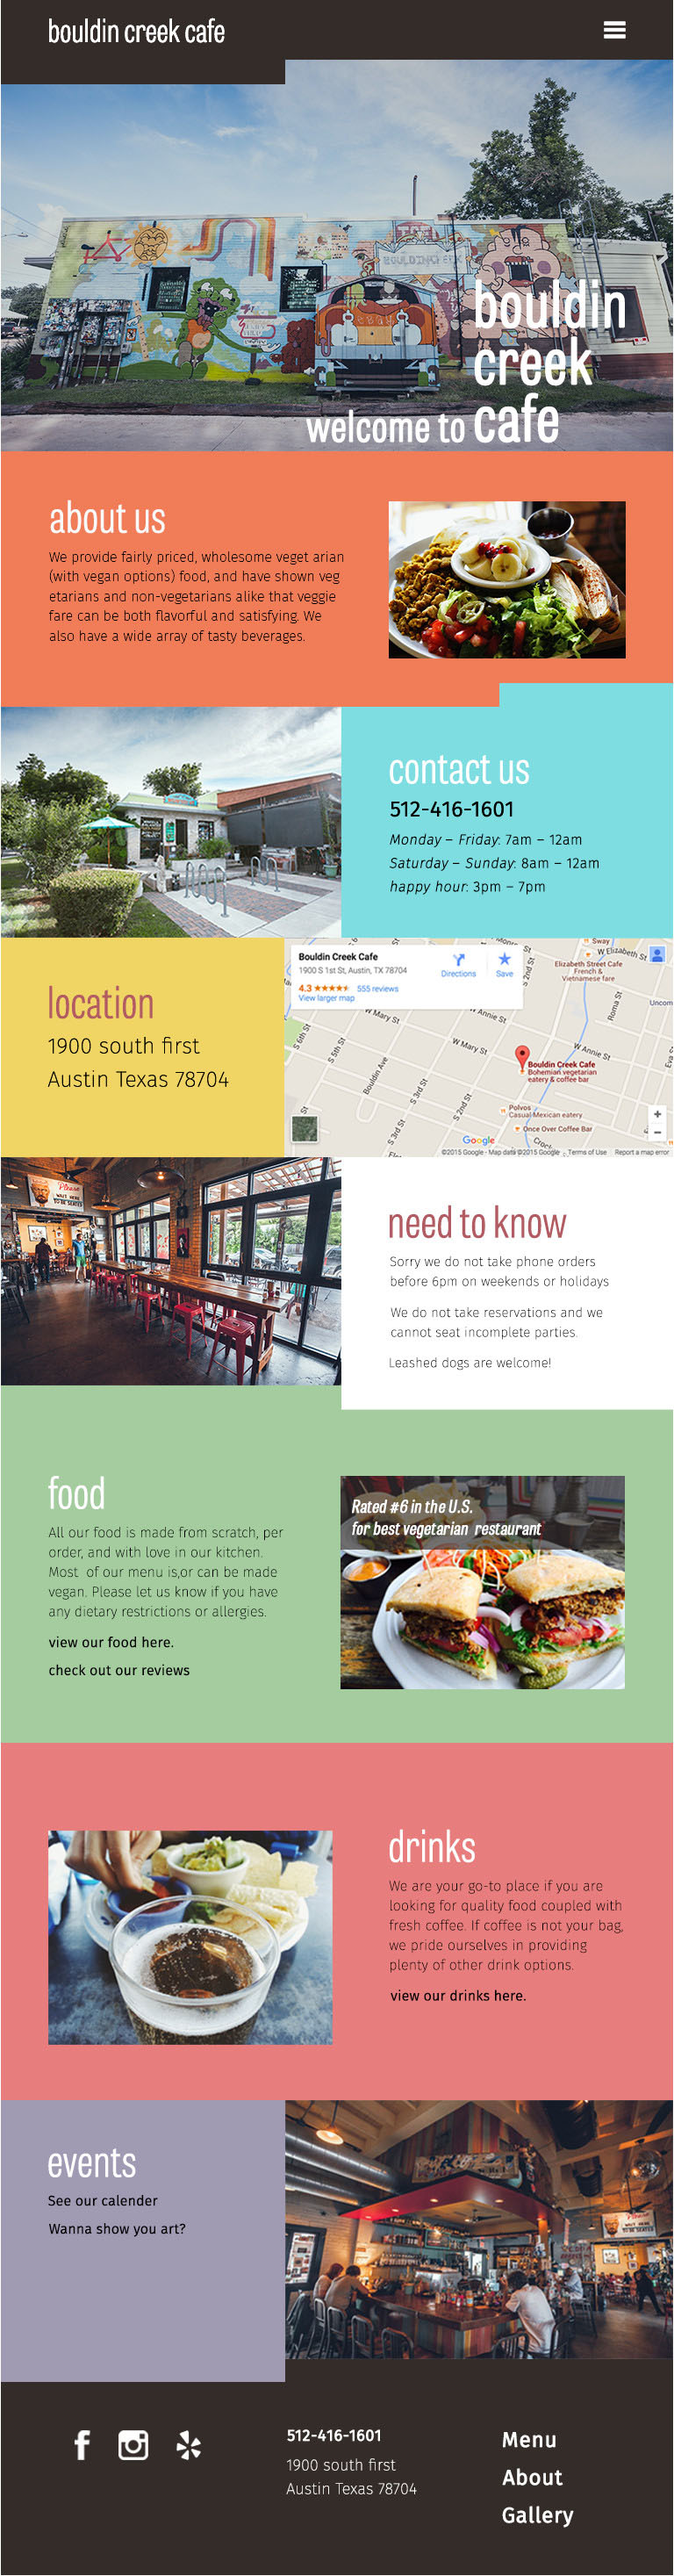
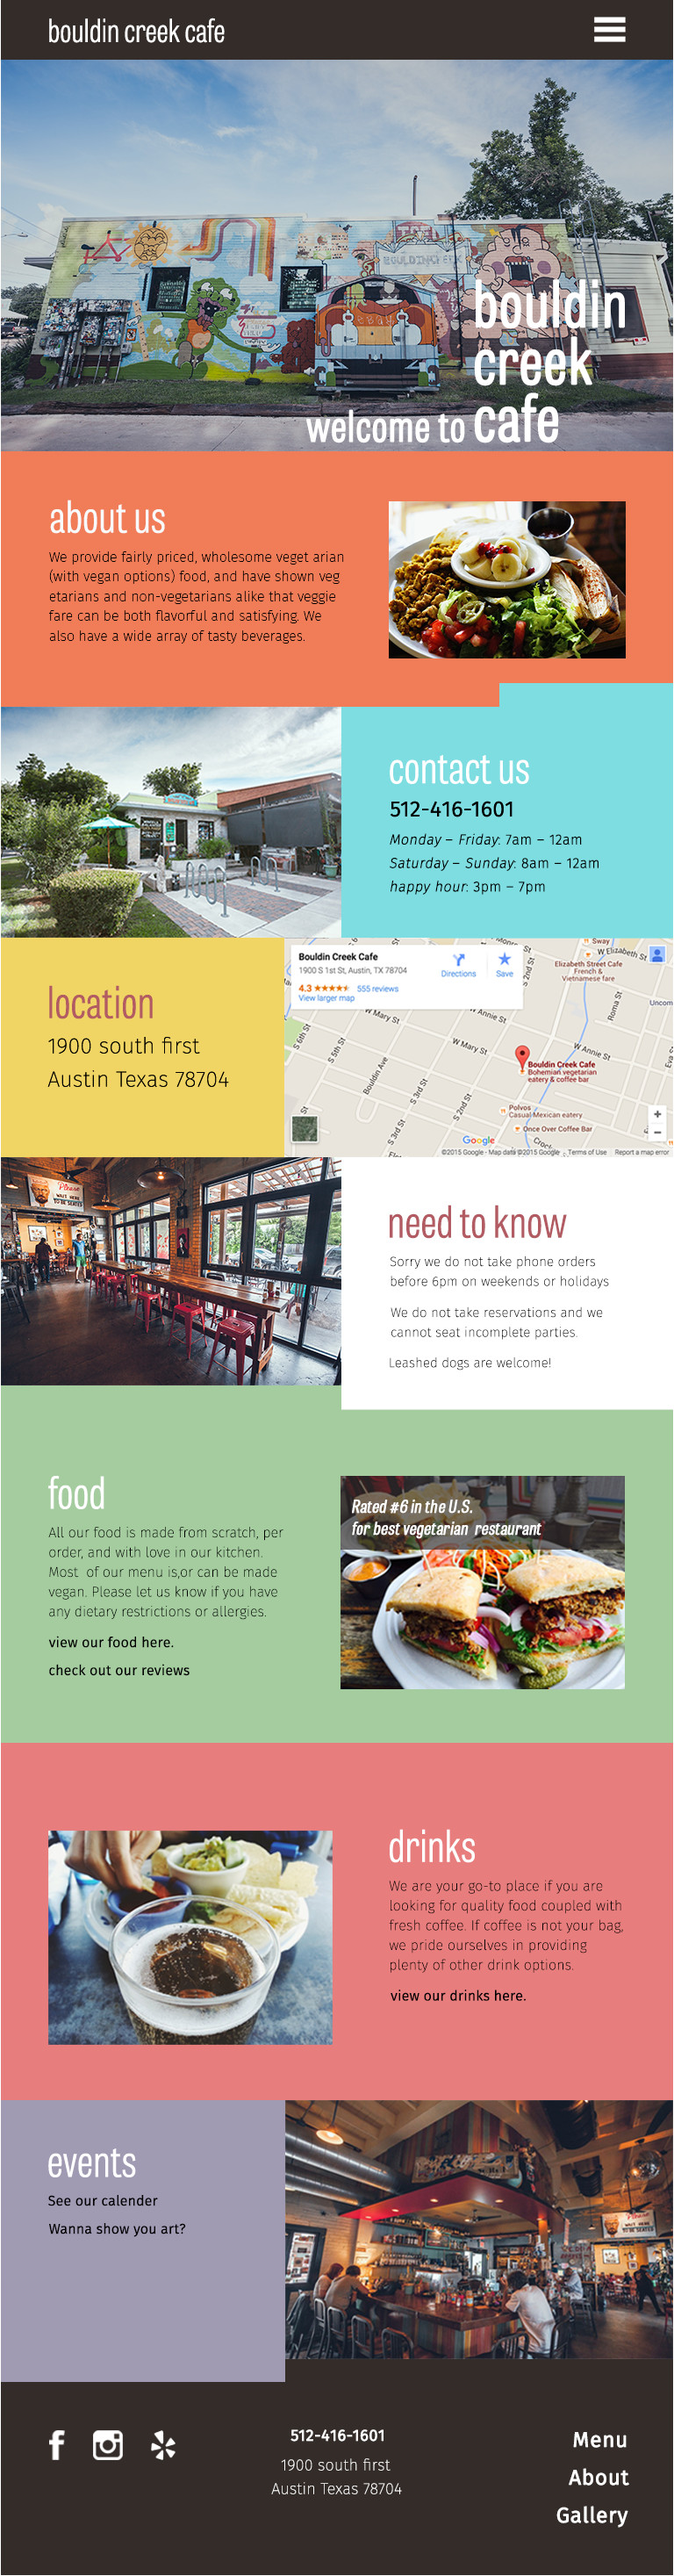
adding content to about page and working on portfolio page info

diff --git a/quest.html b/quest.html
@@ -63,7 +63,7 @@ layout: default
 <ul>
    <li>HTML</li>
    <li>CSS3</li>
-   <li>SASS</li>
+   <li>Sass</li>
    <li>jQuery</li>
    <li>Bootstrap</li>
    <li>RWD</li>
@@ -77,30 +77,30 @@ layout: default
 <h3>Process</h3>
 <p>
 
-I started with user experiences, being a wakeboarder myself made finding people in the sport fairly easy. I talked to the owners, people who knew nothing about cable parks, first timers, and experience riders. It so soon apparent that the site was overwhelming to new riders and didn't provide users with an understanding of what a cable park is. I also found  that tablet users lost all navigation when using the website. While the content was all there I decided it would need an easy to use layout that allowed the user to find info quickly. I moved into doing a wordlist, swot analysis, and competitive market study to gain all the knowledge I could before starting my design.</p>
+I started with user experiences, being a wakeboarder myself made finding people in the sport fairly easy. I talked to the owners, people who knew nothing about cable parks, first timers, and experience riders. It so soon apparent that the site was overwhelming to new riders and didn't provide users with an understanding of what a cable park is. I also found  that tablet users lost all navigation when using the website. While the content was all there I decided it would need an easy to use layout that allowed the user to find info quickly. I moved into doing a wordlist, S.W.O.T analysis, and competitive market study to gain all the knowledge I could before starting my design.</p>
 
-<p class="para-padding">I designed five style tiles and narrowed it down to two. After critiques from the class and users I decided to transform a few of the concepts into one. </p>
+<p class="padding">I designed five style tiles and narrowed it down to two. After critiques from the class and users I decided merge the two concepts into one. </p>
 
 
 
-<div class="col-sm-12">
+<div class="col-sm-12 padding">
 <img src="/images/quest-styletile.png">
 </div>
 
 
 <p>I designed five style tiles and narrowed it down to two. After critiques from the class and users I decided to transform a few of the concepts into one. </p>
-<div class="col-sm-4 port-img">
+<div class="col-sm-4 port-img padding">
 <img src="/images/quest-wireframe2.png">
 </div>
 
-<div class="col-sm-4 port-img">
+<div class="col-sm-4 port-img padding">
 <img src="/images/quest-wireframe1.png">
 </div>
 
 
 
 
-<div class="col-sm-4 ">
+<div class="col-sm-4 padding">
 <img src="/images/quest-mockup.jpg">
 </div>
 

diff --git a/doc-browns.html b/doc-browns.html
@@ -52,7 +52,8 @@ layout: default
 </section>
 <section>
 <h3>About</h3>
-<p>On this I  Project was for a restaurant in San Antonio called Doc Browns.  </p>
+<p>This project was for doc Browns in San Antonio. It was the second buiness the family was opening with a different atmosphere than the first.they wanted a clean up to date website and to be able to showcase there food as well as have a section for the chef to put press items and blog post. Because of the short time frame until the restaurants grand opening i had to make fast decisions and create concepts quickly. I worked with a front-ender  to breakup some of the work load while work on other projects and we used sqaurespaces cms for ease of use and the  clients prior knowledge.
+  </p>
 </section>
 
 
@@ -70,17 +71,16 @@ layout: default
   
 <section>
 <h3>Process</h3>
-<p>With a logo, storyboard, and competors in the area I started with very little direction. 
-I knew they wanted a clean easy to use design. </p>
+<p>With a logo storyboard and competors in the area I started with very little direction. Aiming to meet the clients time frame and must haves, my concepts were clean, light and elegant. With the time crunch at hand I Focusing on the main typographical points and color pallets. I used the menu and the navigation in my styletile to show some of the possible layouts</p>
 
 
 
 
-<div class="col-sm-6 port-img">
+<div class="col-sm-6 port-img padding">
 <img src="/images/doc-styletile1.png">
 
 </div>
-<div class="col-sm-6 ">
+<div class="col-sm-6 padding">
 <img src="/images/doc-styletile2.png">
 </div>
 
@@ -89,7 +89,7 @@ I knew they wanted a clean easy to use design. </p>
 I knew they wanted a clean easy to use design. </p>
 
 
-<div class="col-sm-12 port-img">
+<div class="col-sm-12 port-img padding">
 <img src="/images/doc-styletile3.png">
 
 </div>

diff --git a/bouldin.html b/bouldin.html
@@ -52,19 +52,21 @@ layout: default
     <ul>
       <li>HTML</li>
       <li>CSS3</li>
-      <li>SASS</li>
-      <li>Bootstrap</li>
-      <li>Responsive Web Design</li>
+      <li>Sass</li>
+      <li>RWD</li>
+      <li>Typekit</li>
+      
       <li>Photoshop</li>
     </ul>
   </section>
   <section>
     <h3>Process</h3>
-    <p>What's wrong? Oh, it's Han! I don't know, I really thought he'd change his mind. He's got to follow his own path. No one can choose it for him. I only wish Ben were here. This R2 unit of your seems a bit beat up. Do you want a new one? Not on your life! That little droid and I have been through a lot together. You okay, Artoo? Okay, easy she goes! Hang on tight,Artoo, you've got to come back. You wouldn't want my life to get boring, would you? Luke, the Force will be with you.</p>
-    <div class="col-sm-3 port-img">
+    <p>The website currently wasn't mobile friendly and needed some content adjustments. The website hadn't been updated since 2008 and had an outdated look which didn't give off the great vibes that come from bouldin. 
+My goals were first and foremost to make it accessible to users with smaller devices and to make it appealing to new audiences looking for vegan/ vegetarian options. </p>
+    <div class="col-sm-3 port-img padding">
       <img src="/images/bouldin-home-small.jpg">
     </div>
-    <div class="col-sm-6">
+    <div class="col-sm-6 padding">
       <img src="/images/bouldin-home-full.jpg">
     </div>
   </section>

diff --git a/index.html b/index.html
@@ -53,7 +53,8 @@ layout: default
 
   <section class="about-section ">
     <h3>Web Design isn’t a job,<br />it’s an Adventure.</h3>
-    <p>I’m Chris, a Web / UI Designer in Austin, Texas. This will say something really freaking cool in the future, so just wait and see. I'm not kidding! It will be great! Okay...maybe just okay. I like kittes, I make websites... goodbye.</p>
+    <p>I'm Chris a web designer located in the beautiful state of Texas. I enjoy using logic and design to create engaging experiences
+that bring confidence to my clients and happiness to their users.</p>
     <p>
       <a class="btn" href ="/about.html">LEARN MORE</a>
     </p>
@@ -73,12 +74,12 @@ layout: default
       <div class="port-img col-sm-6 ">
         <figure ><a href="/quest.html"><img src="/images/quest2.jpg" /></a></figure>
         <h4>Quest ATX</h4>
-        <p>HTML, CSS, jQuery, Bootstrap</p>
+        <p>HTML, CSS, Sass, jQuery, Bootstrap</p>
       </div>
       <div class="port-img col-sm-6 ">
       <figure ><a href="/bouldin.html"><img src="/images/bouldin-home.jpg" /></a></figure>
       <h4>Bouldin Creek Cafe</h4>
-      <p>RWD,Bootstrap</p>
+      <p>RWD, Typekit</p>
     </div>
     <div class="port-img col-sm-6 ">
     <figure ><a href="/doc-browns.html"><img src="/images/doc-background.png" /></a></figure>

diff --git a/_sass/_base.scss b/_sass/_base.scss
@@ -21,9 +21,11 @@ img {
 .projects {
     img {
         border: 1px solid lightgrey;
-        margin-top: 30px;
+        margin-top: 0px;
         margin-bottom:60px;
     }
+
+
     h3 {
         padding-bottom: 15px;
     }
@@ -113,7 +115,7 @@ li {
     display: none;
 }
 
-/* About Section
+/* About section on home
 ===================================*/
 .about-section {
     h3 {
@@ -125,6 +127,15 @@ li {
             padding-bottom: 0;
         }
     }
+}
+
+/* About page
+===================================*/
+.about-page{
+    p{
+        padding-left:5%;
+    }
+
 }
 
 /* Portfolio Section
@@ -209,17 +220,23 @@ li {
                 color: #787878;
             }
         }
-        /* Adds padding to paragrahs when needed
+        /* Adds padding 
         ===================================*/
-        .para-padding {
+        .padding {
             padding-top: 30px;
         }
+    }
+
+    .none{
+        padding-top:0;
     }
     /* Stops li from floating on technologies
     ===================================*/
     .no-float {
         float: none;
     }
+
+
 }
 
 /* Blog Section

diff --git a/_sass/_mediaqueries.scss b/_sass/_mediaqueries.scss
@@ -83,6 +83,12 @@
         }
     }
     }
+
+     /* Adds padding 
+        ===================================*/
+        .padding {
+            padding-top: 30px;
+        }
 }
 
 @media screen and (min-width: 992px) {
@@ -115,9 +121,14 @@
         position: fixed;
     }
     .hero-container {
+         padding-right: 10%;
+         
+
+
         h1, h2, li {
             text-align: right;
-            padding-right: 10%;
+
+           
         }
         .logo {
             padding-top: 80px;
@@ -187,6 +198,8 @@
 
 @media screen and (min-width: 1400px) {
     .hero-container {
+
+
         .logo {
             h1 {
                 position: relative;

diff --git a/about.html b/about.html
@@ -46,3 +46,30 @@ layout: default
 
 </div>
 </div>
+
+
+<div class="container projects about-page">
+<section>
+   <h2>Hi, I'm Chris.</h2>
+  
+
+
+<div class="col-sm-3 port-img padding">
+<img src="/images/about-pic.jpg">
+
+</div>
+<div class="col-sm-9 padding">
+<p>I'm a recent graduate of the User Interface Design course at The Iron Yard in Austin, Texas.</p>
+
+</div>
+</section>
+
+
+</div>
+
+
+
+
+
+
+
